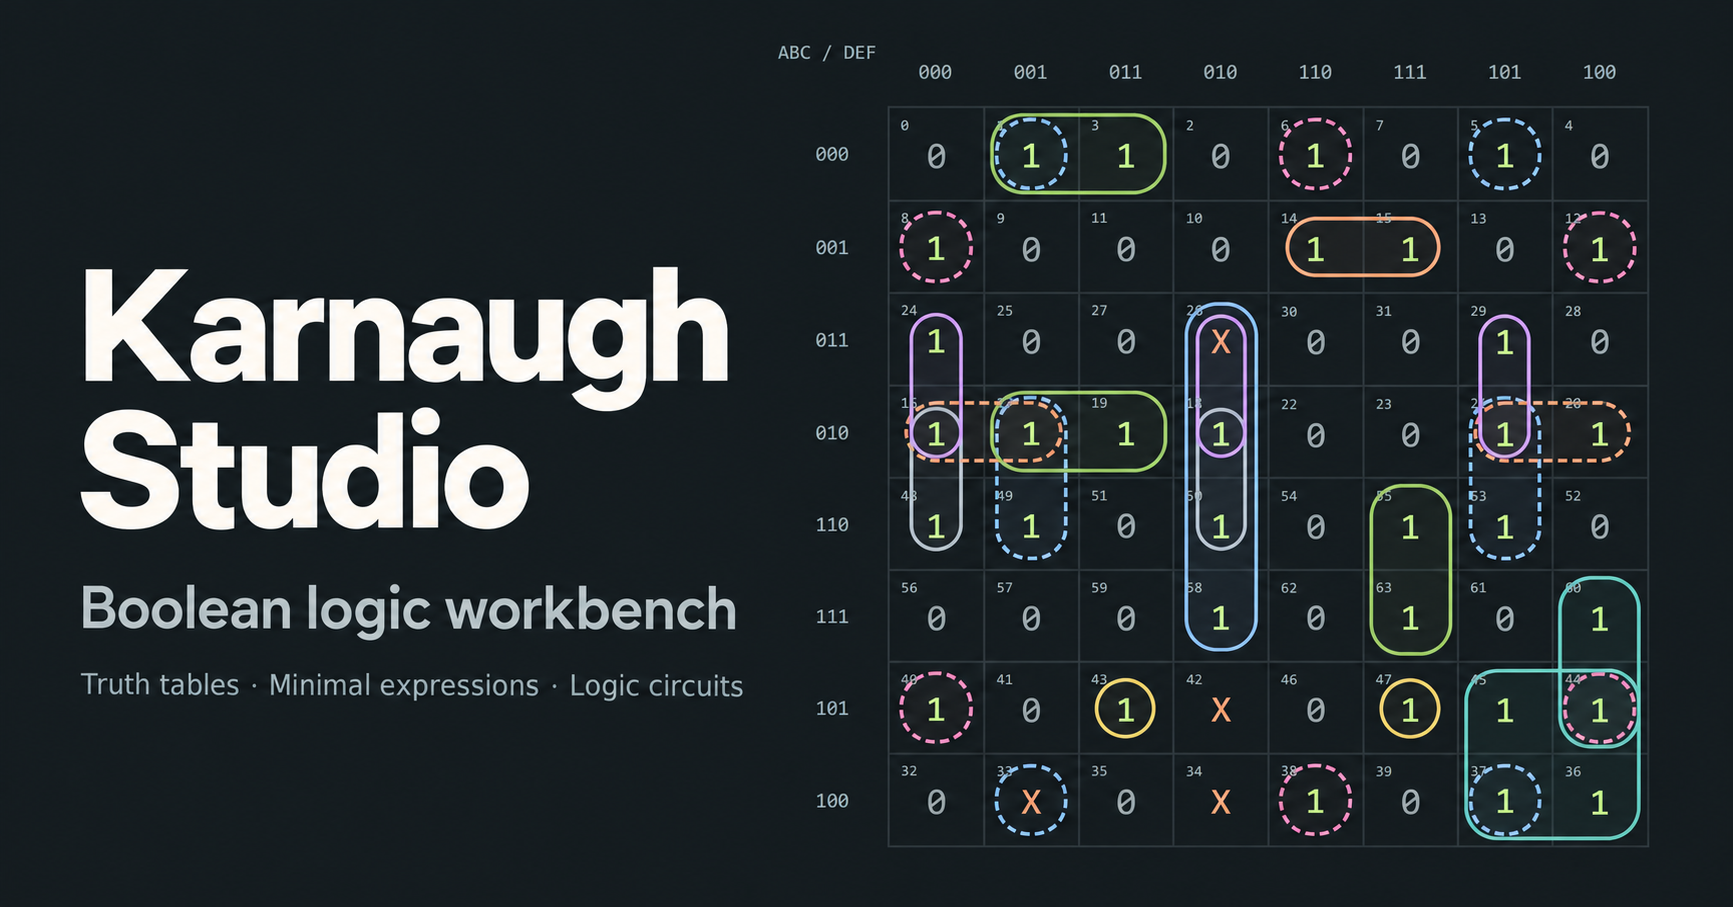
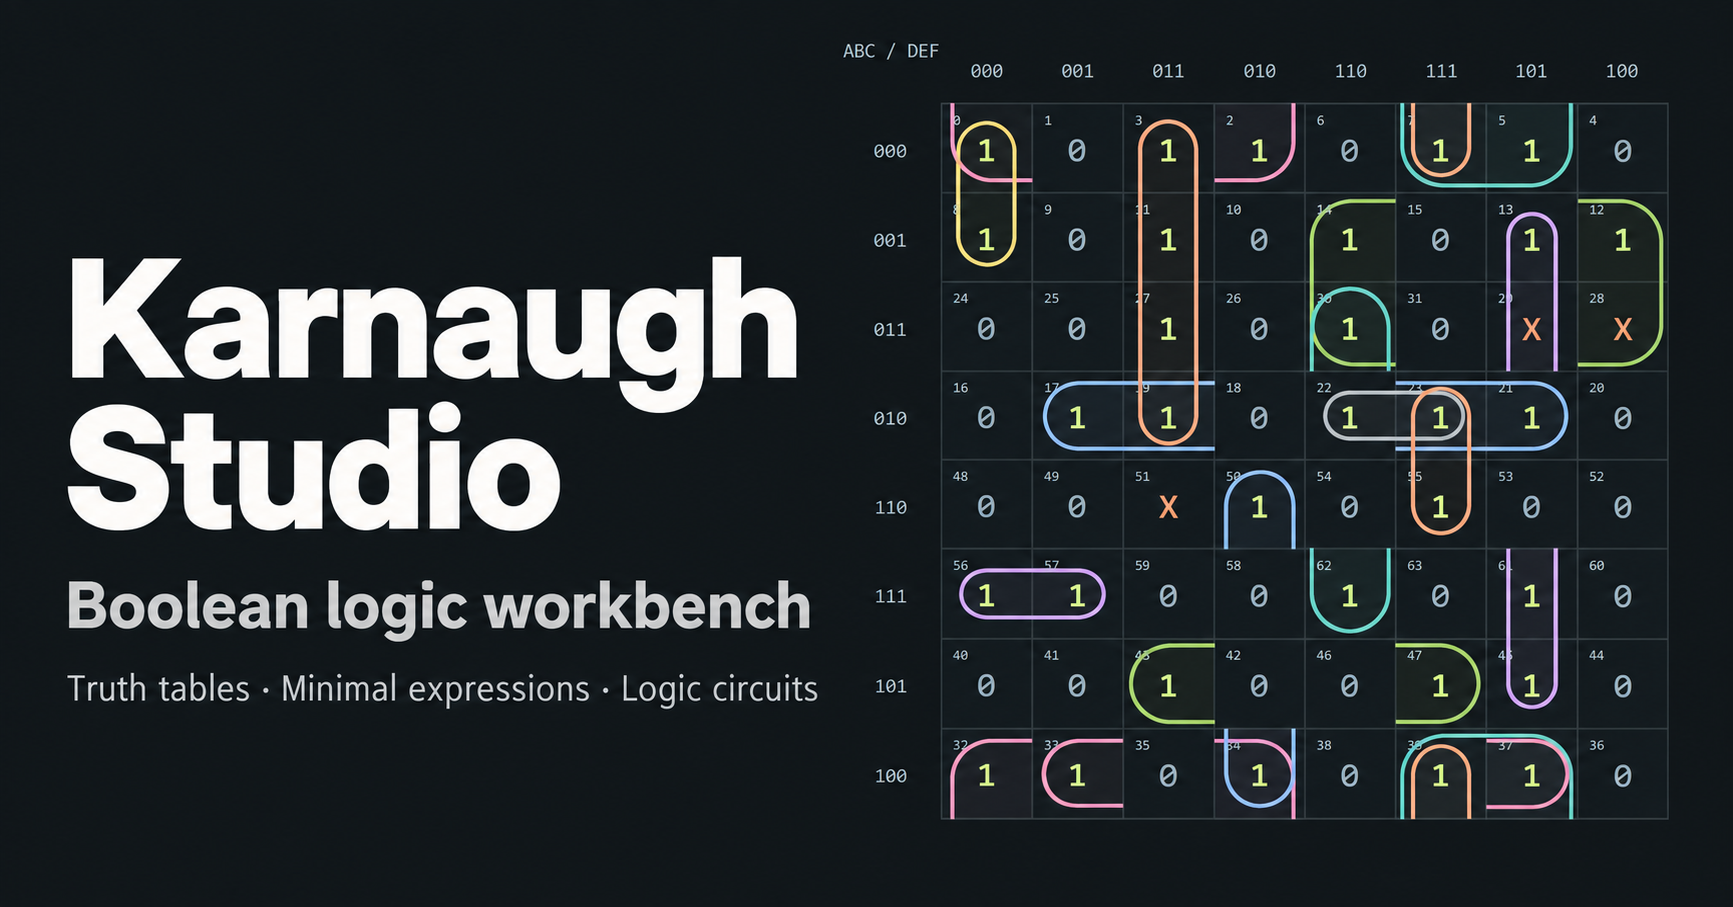
semi circles

diff --git a/svg.js b/svg.js
@@ -39,7 +39,32 @@ export function mapSvg(n,values,cubes=[]){
   cols.forEach((c,j)=>body+=`<text x="${left+(j+.5)*cell}" y="30" text-anchor="middle" fill="var(--muted)" font-size="11">${label(c,cb)}</text>`);
   rows.forEach((r,k)=>{body+=`<text x="45" y="${top+(k+.5)*cell+4}" text-anchor="end" fill="var(--muted)" font-size="11">${label(r,rb)}</text>`;cols.forEach((c,j)=>{const i=(r<<cb)|c;body+=`<g class="map-cell" role="button" tabindex="0" data-index="${i}" aria-label="Minterm ${i}, output ${values[i]}. Cycle 0, 1, X."><title>m${i}: ${label(i,n)} → ${values[i]}</title><rect class="cell-bg" x="${left+j*cell}" y="${top+k*cell}" width="${cell}" height="${cell}" fill="var(--panel)" stroke="var(--line)"/><text x="${left+j*cell+7}" y="${top+k*cell+12}" font-size="8" fill="var(--muted)">${i}</text><text x="${left+(j+.5)*cell}" y="${top+(k+.5)*cell+7}" text-anchor="middle" font-size="20" fill="${values[i]===1?'var(--accent)':values[i]==='X'?'var(--dont-care)':'var(--muted)'}">${values[i]}</text></g>`})});
   const runs=indices=>{const result=[];for(const i of indices){const last=result.at(-1);if(last&&last[1]===i-1)last[1]=i;else result.push([i,i])}return result};
-  cubes.forEach((cube,index)=>{const rs=rows.flatMap((r,k)=>cols.some(c=>matches(cube,(r<<cb)|c))?[k]:[]),cs=cols.flatMap((c,j)=>rows.some(r=>matches(cube,(r<<cb)|c))?[j]:[]);const rr=runs(rs),cr=runs(cs);const wrap=(rr.length>1&&rs[0]===0&&rs.at(-1)===rows.length-1)||(cr.length>1&&cs[0]===0&&cs.at(-1)===cols.length-1);const inset=4+(index%4)*3;for(const [r0,r1]of rr)for(const[c0,c1]of cr)body+=`<rect pointer-events="none" x="${left+c0*cell+inset}" y="${top+r0*cell+inset}" width="${(c1-c0+1)*cell-inset*2}" height="${(r1-r0+1)*cell-inset*2}" rx="${Math.min(17,cell/2-inset)}" fill="${colors[index%colors.length]}" fill-opacity=".055" stroke="${colors[index%colors.length]}" stroke-width="2" ${wrap?'stroke-dasharray="5 3"':''}><title>Group ${index+1}${wrap?' (continues across opposite edges)':''}</title></rect>`});
+  cubes.forEach((cube,index)=>{
+    const rs=rows.flatMap((r,k)=>cols.some(c=>matches(cube,(r<<cb)|c))?[k]:[]),cs=cols.flatMap((c,j)=>rows.some(r=>matches(cube,(r<<cb)|c))?[j]:[]);
+    const rr=runs(rs),cr=runs(cs),split=rr.length>1||cr.length>1,inset=4+(index%4)*3,color=colors[index%colors.length];
+    for(const [r0,r1]of rr)for(const[c0,c1]of cr){
+      // Open the outline toward the other fragments of this implicant. At
+      // opposite map edges this produces matching half-loops; internal gaps
+      // in larger Gray-code maps use the same continuation convention.
+      const wrapX=cr.length>1&&cs[0]===0&&cs.at(-1)===cols.length-1,wrapY=rr.length>1&&rs[0]===0&&rs.at(-1)===rows.length-1;
+      const west=cr.length>1&&(wrapX?c0===0:c0>cs[0]);
+      const east=cr.length>1&&(wrapX?c1===cols.length-1:c1<cs.at(-1));
+      const north=rr.length>1&&(wrapY?r0===0:r0>rs[0]);
+      const south=rr.length>1&&(wrapY?r1===rows.length-1:r1<rs.at(-1));
+      const x=left+c0*cell+(west?0:inset),y=top+r0*cell+(north?0:inset),right=left+(c1+1)*cell-(east?0:inset),bottom=top+(r1+1)*cell-(south?0:inset);
+      const radius=split?Math.min(right-x,bottom-y)/2:Math.min(17,cell/2-inset);
+      let d='';
+      if(!north)d+=`M${x+(west?0:radius)},${y} H${right-(east?0:radius)} `;
+      if(!east)d+=`M${right},${y+(north?0:radius)} V${bottom-(south?0:radius)} `;
+      if(!south)d+=`M${right-(east?0:radius)},${bottom} H${x+(west?0:radius)} `;
+      if(!west)d+=`M${x},${bottom-(south?0:radius)} V${y+(north?0:radius)} `;
+      if(!north&&!west)d+=`M${x},${y+radius} A${radius},${radius} 0 0 1 ${x+radius},${y} `;
+      if(!north&&!east)d+=`M${right-radius},${y} A${radius},${radius} 0 0 1 ${right},${y+radius} `;
+      if(!south&&!east)d+=`M${right},${bottom-radius} A${radius},${radius} 0 0 1 ${right-radius},${bottom} `;
+      if(!south&&!west)d+=`M${x+radius},${bottom} A${radius},${radius} 0 0 1 ${x},${bottom-radius} `;
+      body+=`<g pointer-events="none" data-map-group="${index+1}" data-continuation="${[north?'north':'',east?'east':'',south?'south':'',west?'west':''].filter(Boolean).join(' ')}"><title>Group ${index+1}${split?' (matching open ends belong to the same term)':''}</title><rect x="${x}" y="${y}" width="${right-x}" height="${bottom-y}" rx="${split?0:radius}" fill="${color}" fill-opacity=".055"/><path d="${d}" fill="none" stroke="${color}" stroke-width="2"/></g>`;
+    }
+  });
   return `<svg xmlns="http://www.w3.org/2000/svg" viewBox="0 0 ${width} ${height}" width="${width}" height="${height}" style="min-width:${Math.min(width,950)}px" role="img" aria-label="${n} variable Karnaugh map with ${cubes.length} implicant groups" font-family="monospace">${body}</svg>`;
 }
 export {circuitSvg} from './circuit.js';

diff --git a/index.html b/index.html
@@ -39,7 +39,7 @@
     </aside>
     <div class="results">
       <section class="panel function-panel"><div><div class="eyebrow">FUNCTION ORDER NUMBER</div><div id="order" class="order-number"></div><div id="order-note" class="small muted">`N = sum f(i) · 2^i`<span class="separator">/</span> row 0 means the least significant bit</div></div><div class="function-stats"><span><strong id="ones">0</strong> minterms</span><span><strong id="groups">0</strong> groups</span><span><strong id="dont-cares">0</strong> X rows</span></div></section>
-      <section class="panel map-panel"><div class="panel-heading"><h2><span class="step">02</span> Karnaugh map</h2><div class="pill">GRAY CODE ORDER</div></div><p class="small muted map-note">Click any cell to cycle 0 → 1 → X. X cells can enlarge groups. Colored loops show the selected implicants; loops can wrap at the edges.</p><div id="map" class="map-container"></div><div id="legend" class="map-legend"></div></section>
+      <section class="panel map-panel"><div class="panel-heading"><h2><span class="step">02</span> Karnaugh map</h2><div class="pill">GRAY CODE ORDER</div></div><p class="small muted map-note">Click any cell to cycle 0 → 1 → X. X cells can enlarge groups. Colored loops show the selected implicants. Matching colored half-loops have open ends where a term continues across opposite edges or separated map regions.</p><div id="map" class="map-container"></div><div id="legend" class="map-legend"></div></section>
       <section class="panel expression-panel"><div class="panel-heading"><h2><span class="step">03</span> Expressions & circuits</h2><span id="status" class="small muted" role="status" aria-live="polite">Solving…</span></div>
       <div class="tabs" role="tablist" aria-label="Expression form"><button role="tab" id="tab-minimal" data-form="minimal" aria-selected="true">Minimal</button><button role="tab" id="tab-dnf" data-form="dnf" aria-selected="false">DNF</button><button role="tab" id="tab-cnf" data-form="cnf" aria-selected="false">CNF</button><button role="tab" id="tab-nand" data-form="nand" aria-selected="false">NAND</button><button role="tab" id="tab-nor" data-form="nor" aria-selected="false">NOR</button></div>
       <div id="expression-content" role="tabpanel" aria-labelledby="tab-minimal"><div class="formula-heading"><span id="form-name" class="field-label"></span><button id="copy" class="text-button">Copy ASCIIMath</button></div><div id="formula" class="formula"></div><p id="form-note" class="small muted"></p><div class="circuit-heading"><h3>Logic circuit</h3><button id="download" class="text-button">↓ Download SVG</button></div><p class="small muted">Signals flow left to right. Dots join wires; wire jumps cross without connecting. Output circles mean inversion.</p><div id="diagram" class="diagram-container"></div></div></section>

diff --git a/tests/logic.test.js b/tests/logic.test.js
@@ -2,6 +2,17 @@ import test from 'node:test';
 import assert from 'node:assert/strict';
 import {solve,evaluate,minimize,matches,orderNumber,popcount,gray,expression} from '../logic.js';
 import {mapSvg,circuitSvg,timingSignals,timingSvg} from '../svg.js';
+test('split map groups use open half-loops at matching opposite edges',()=>{
+ const horizontal=mapSvg(4,Array(16).fill(1),[{bits:0,mask:2}]);
+ assert.ok(horizontal.includes('data-continuation="west"'));
+ assert.ok(horizontal.includes('data-continuation="east"'));
+ assert.equal((horizontal.match(/data-map-group="1"/g)||[]).length,2);
+ const corners=mapSvg(4,Array(16).fill(1),[{bits:0,mask:10}]);
+ for(const sides of ['north west','north east','south west','east south'])assert.ok(corners.includes(`data-continuation="${sides}"`),sides);
+ assert.equal((corners.match(/data-map-group="1"/g)||[]).length,4);
+ assert.ok(!horizontal.includes('stroke-dasharray'));
+ assert.ok(horizontal.includes(' A'));
+});
 function equivalent(n,values){const result=solve(n,values);for(const [name,tree] of Object.entries(result.forms))for(let i=0;i<values.length;i++)assert.equal(evaluate(tree,n,i),values[i],`${name}, n=${n}, row=${i}`);return result}
 test('every Boolean function with up to three inputs: all six forms are equivalent',()=>{for(let n=1;n<=3;n++)for(let order=0;order<2**(2**n);order++)equivalent(n,Array.from({length:2**n},(_,i)=>(order>>i)&1))});
 test('minimum cover agrees with an independent exhaustive cube-cover oracle for three inputs',()=>{
